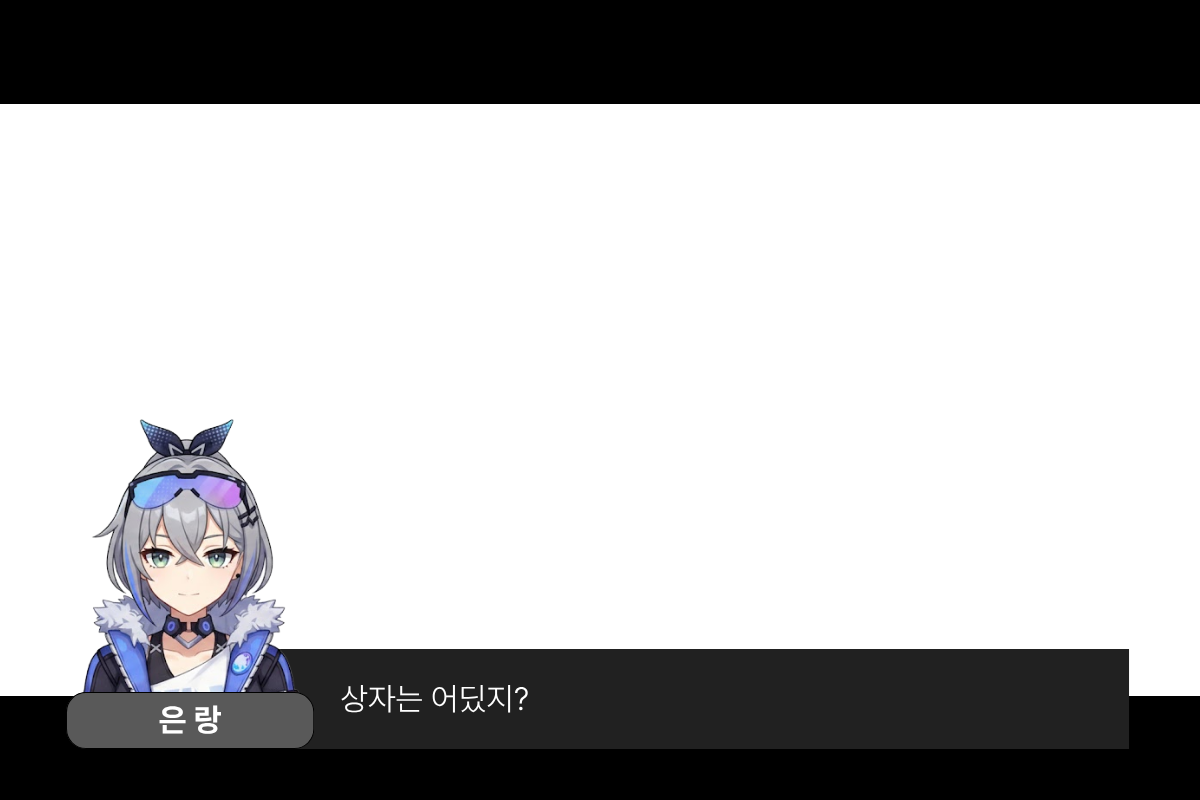
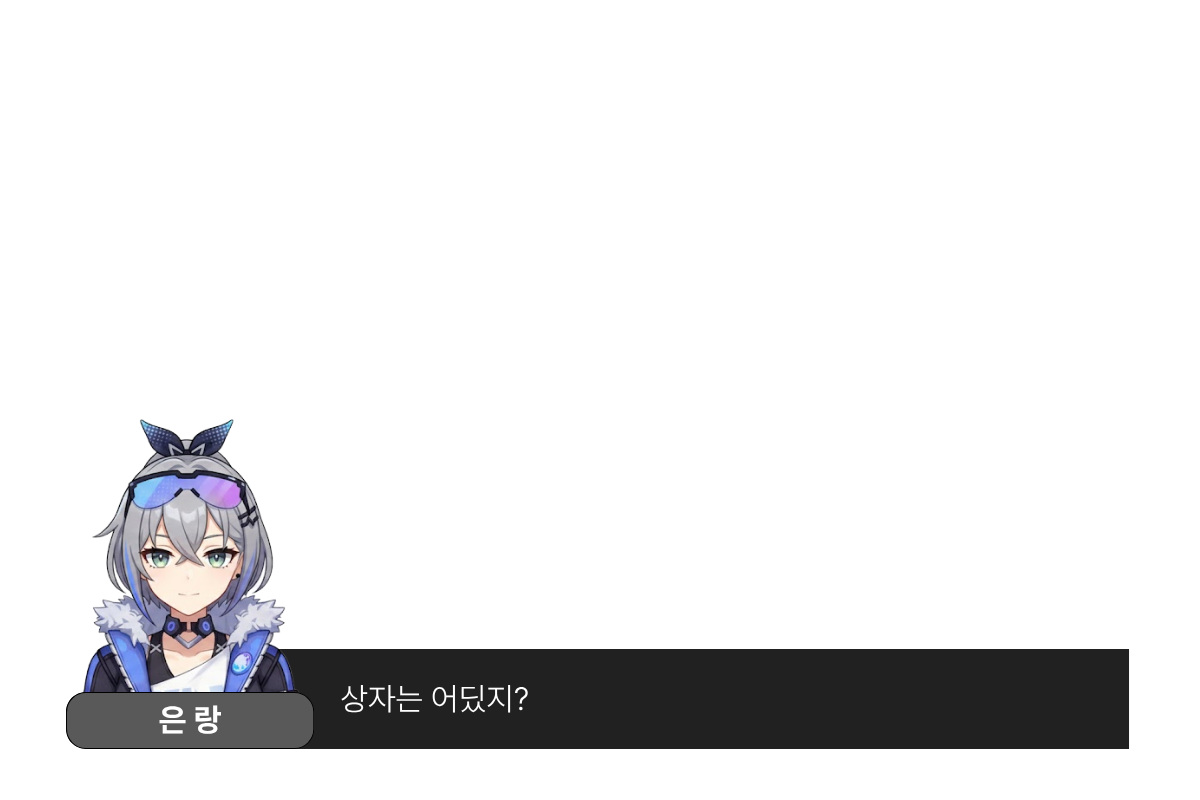
'ㅇㅅㅇ'는 눈을 동그랗게 뜨고 'ㅅ' 모양 입을 가진 귀여운 표정을 형상화한 아스키 아트 이모티콘으로, 주로 어리둥절하거나, 할 말이 없거나, 긍정적/부정적 반응을 나타내는 추임새처럼 사용되며, 원숭이나 곰돌이 같은 귀여운 동물의 느낌을 주기도 합니다. 명확한 단어의 줄임말이라기보다는 그림말(이모티콘)의 한 종류이며, '어리석어', '애송이' 같은 부정적인 뉘앙스나 '어서 와' 같은 긍정적 뉘앙스 등으로 해석이 다양해지는 특징이 있습니다.

Changed region(s): [[0.0, 0.0, 1.0, 0.1562], [0.0, 0.8438, 1.0, 1.0]]

diff --git a/umieun_umital/game_mode.cpp b/umieun_umital/game_mode.cpp
@@ -63,6 +63,8 @@ void game_mode::Init() {
     // ui 및 텍스트 로드
     loadImages();
     loadTexts();
+    ui_dis = glm::vec2((winWidth - 1200) / 2, (winHeight - 800) / 2);
+    reshape_ui(winWidth, winHeight);
 
     // 스카이박스
     skybox = new Skybox("skybox/sun.png", "skybox/moon.png");
@@ -541,20 +543,22 @@ void game_mode::Draw() {
         else mission->Draw(shaderProgramImage, uiProj);
     }
     if (!game_start && !fade) {
-        game_ui->Draw(shaderProgramImage, uiProj);
+        game_ui_enemy->Draw(shaderProgramImage, uiProj);
+		game_ui_ball->Draw(shaderProgramImage, uiProj);
+		game_ui_option->Draw(shaderProgramImage, uiProj);
         if (show_e_key) e_key_image->Draw(shaderProgramImage, uiProj);
 
         std::stringstream ss;
         ss << std::fixed << std::setprecision(2) << record_time;
         string now_time = "Time: " + ss.str();
-        textUI.Draw(now_time, 0, (WINDOW_HEIGHT * 5 / 6) - 100.0f, 0.4f, glm::vec3(0.9f, 0.9f, 0.9f));
+        textUI.Draw(now_time, 0, WINDOW_HEIGHT - 230.0f, 0.4f, glm::vec3(0.9f, 0.9f, 0.9f));
 
         string ball_count = to_string(silverWolf.ball_cnt);
-        textUI.Draw(ball_count, 1175.0f, 25.0f, 0.35f, glm::vec3(0.9f, 0.9f, 0.9f));
+        textUI.Draw(ball_count, WINDOW_WIDTH - 110.0f, 25.0f, 0.35f, glm::vec3(0.9f, 0.9f, 0.9f));
 
         string kill_count_str = to_string(kill_count);
         string enemy_count_str = to_string(target_count);
-        textUI.Draw(kill_count_str + " / " + enemy_count_str, 50, (WINDOW_HEIGHT * 5 / 6) - 200.0f, 0.4f, glm::vec3(0.9f, 0.9f, 0.9f));
+        textUI.Draw(kill_count_str + " / " + enemy_count_str, 50, WINDOW_HEIGHT - 330.0f, 0.4f, glm::vec3(0.9f, 0.9f, 0.9f));
 
         if (ultimate) {
             silverWolfult[static_cast<int>(ultimate_frame)]->Draw(shaderProgramImage, uiProj);
@@ -932,7 +936,7 @@ void game_mode::Mouse(int button, int state, int x, int y) {
     silverWolf.Mouse(button, state, x, y);
 
     if (button == GLUT_LEFT_BUTTON && state == GLUT_DOWN) {
-        if (x >= 1150 && x <= 1250 && y >= 0 && y <= 60) {
+        if (x >= WINDOW_WIDTH - 50.0f && x <= WINDOW_WIDTH && y >= 0 && y <= 60) {
             playerChannel = soundManager.Play("click", silverWolf.pos, effect_volume);
             silverWolf.ChangeState(new State_Idle());
             silverWolf.w_press = false;
@@ -1012,10 +1016,18 @@ void game_mode::Finish() {
         delete black_background;
         black_background = nullptr;
     }
-    if (game_ui) {
-        delete game_ui;
-        game_ui = nullptr;
+    if (game_ui_ball) {
+        delete game_ui_ball;
+        game_ui_ball = nullptr;
     }
+    if (game_ui_enemy) {
+        delete game_ui_enemy;
+        game_ui_enemy = nullptr;
+	}
+    if (game_ui_option) {
+        delete game_ui_option;
+        game_ui_option = nullptr;
+	}
     if (e_key_image) {
         delete e_key_image;
         e_key_image = nullptr;
@@ -1043,6 +1055,10 @@ void game_mode::Finish() {
 void game_mode::Reshape(int w, int h) {
     WINDOW_WIDTH = w;
     WINDOW_HEIGHT = h;
+    ui_dis = glm::vec2((w - 1200) / 2, (h - 800) / 2);
+    reshape_ui((float)w, (float)h);
+    glm::mat4 proj = glm::ortho(0.0f, (float)w, 0.0f, (float)h);
+    textUI.projection = proj;
     glViewport(0, 0, w, h);
 }
 
@@ -1059,7 +1075,8 @@ void game_mode::OnPause() {
 
 void game_mode::OnResume() {
     camera_fixed = false;
-    // 옵션 창 닫고 돌아왔을 때 복구할 로직
+    ui_dis = glm::vec2((winWidth - 1200) / 2, (winHeight - 800) / 2);
+    reshape_ui(winWidth, winHeight);
     glEnable(GL_DEPTH_TEST); // 혹시 다른 씬에서 껐을까봐 다시 켬
 }
 
@@ -1104,8 +1121,8 @@ void game_mode::loadModels() {
 void game_mode::loadImages() {
     stbi_set_flip_vertically_on_load(true);
 
-    glm::vec2 size1 = glm::vec2((float)winWidth, (float)winHeight);
-    glm::vec2 pos1 = glm::vec2((float)winWidth / 2.0f, (float)winHeight / 2.0f);
+    glm::vec2 size1 = glm::vec2((float)1200, (float)800);
+    glm::vec2 pos1 = glm::vec2((float)1200 / 2.0f, (float)800 / 2.0f);
 
     mission = new Image(LoadTexture("scene_image/mission.png"), pos1, size1);
     mission->color.w = 1.0f;
@@ -1113,8 +1130,14 @@ void game_mode::loadImages() {
     black_background = new Image(LoadTexture("scene_image/black_background.png"), pos1, size1);
     black_background->color.w = 0.5f;
 
-    game_ui = new Image(LoadTexture("scene_image/game_ui.png"), pos1, size1);
-    game_ui->color.w = 1.0f;
+    game_ui_ball = new Image(LoadTexture("scene_image/game_ui_ball.png"), pos1, size1);
+    game_ui_ball->color.w = 1.0f;
+
+    game_ui_enemy = new Image(LoadTexture("scene_image/game_ui_enemy.png"), pos1, size1);
+    game_ui_enemy->color.w = 1.0f;
+
+    game_ui_option = new Image(LoadTexture("scene_image/game_ui_option.png"), pos1, size1);
+    game_ui_option->color.w = 1.0f;
 
     e_key_image = new Image(LoadTexture("scene_image/e_key.png"), pos1, size1);
     e_key_image->color.w = 0.8f;
@@ -1124,9 +1147,38 @@ void game_mode::loadImages() {
 
     stbi_set_flip_vertically_on_load(false);
 }
+void game_mode::reshape_ui(float w, float h) {
+	mission->size = glm::vec2(1200.0f, 800.0f);
+	mission->position = glm::vec2(w / 2.0f, h / 2.0f);
 
+	black_background->size = glm::vec2(w, h);
+	black_background->position = glm::vec2(w / 2.0f, h / 2.0f);
+
+    game_ui_ball->size = glm::vec2(1200.0f, 800.0f);
+	game_ui_ball->position = glm::vec2(w - game_ui_ball->size.x / 2, game_ui_ball->size.y / 2);
+
+    game_ui_enemy->size = glm::vec2(1200.0f, 800.0f);
+    game_ui_enemy->position = glm::vec2(game_ui_enemy->size.x / 2, h - game_ui_enemy->size.y / 2);
+
+    game_ui_option->size = glm::vec2(1200.0f, 800.0f);
+    game_ui_option->position = glm::vec2(w-game_ui_ball->size.x / 2, h-game_ui_ball->size.y / 2);
+
+	e_key_image->size = glm::vec2(1200.0f, 800.0f);
+	e_key_image->position = glm::vec2(w / 2.0f, h / 2.0f);
+
+	game_tip->size = glm::vec2(1200.0f, 800.0f);
+	game_tip->position = glm::vec2(w / 2.0f, h / 2.0f);
+
+    for (int i = 4;i < silverWolfult_count + 4;++i) {
+        silverWolfult[i - 4]->size = glm::vec2(w, h);
+		silverWolfult[i - 4]->position = glm::vec2(w / 2.0f, h / 2.0f);
+    }
+
+    glm::mat4 proj = glm::ortho(0.0f, (float)w, 0.0f, (float)h);
+    textUI.projection = proj;
+}
 void game_mode::loadTexts() {
-    glm::mat4 proj = glm::ortho(0.0f, 1280.0f, 0.0f, 720.0f);
+    glm::mat4 proj = glm::ortho(0.0f, 1200.0f, 0.0f, 800.0f);
 
     textUI.Init("font/경기천년제목_Medium.ttf", shaderProgramText, proj);
 

diff --git a/umieun_umital/clear_mode.cpp b/umieun_umital/clear_mode.cpp
@@ -118,11 +118,11 @@ void clear_mode::loadModels() {
 void clear_mode::loadImages() {
     stbi_set_flip_vertically_on_load(true);
 
-    glm::vec2 size1 = glm::vec2((float)winWidth, (float)winHeight);
-    glm::vec2 pos1 = glm::vec2((float)winWidth / 2.0f, (float)winHeight / 2.0f);
+    glm::vec2 size1 = glm::vec2((float)1200, (float)800);
+    glm::vec2 pos1 = glm::vec2((float)1200 / 2.0f, (float)800 / 2.0f);
 
     black_background = new Image(LoadTexture("scene_image/black_background.png"), pos1, size1);\
-        black_background->color.w = 0.0f;
+    black_background->color.w = 0.0f;
 
     black_bar = new Image(LoadTexture("scene_image/cut_scene_black_bar.png"), pos1, size1);
     black_bar->color.w = 1.0f;
@@ -146,12 +146,34 @@ void clear_mode::loadImages() {
 
     stbi_set_flip_vertically_on_load(false);
 }
+void clear_mode::reshape_ui(float w, float h) {
+	black_background->size = glm::vec2(w, h);
+	black_background->position = glm::vec2(w / 2.0f, h / 2.0f);
+
+	black_bar->size = glm::vec2(w, h);
+	black_bar->position = glm::vec2(w / 2.0f, h / 2.0f);
+
+	qte_f->position = glm::vec2(940.0f + ui_dis.x, 360.0f + ui_dis.y);
+
+	qte_tip->position = glm::vec2(w / 2.0f, h / 2.0f);
+
+    for (auto& m : scene_1) {
+        m->position = glm::vec2(w / 2.0f, m->size.y /2 + ui_dis.y/4);
+	}
+
+    for (auto& m : scene_2) {
+		m->size = glm::vec2(w, h);
+        m->position = glm::vec2(w / 2.0f, m->size.y / 2 + ui_dis.y / 4);
+	}
+}
 void clear_mode::loadTexts() {
 }
 
 // 1. 초기화 (기존 init 함수 내용)
 void clear_mode::Init() {
     cout << "[clearMode] Initializing..." << endl;
+
+    stbi_set_flip_vertically_on_load(false);
 
     if (bgmChannel) {
         bgmChannel->stop();
@@ -170,12 +192,17 @@ void clear_mode::Init() {
     loadModels();
     loadImages();
     loadTexts();
+
+	ui_dis = glm::vec2((winWidth - 1200) / 2, (winHeight - 800) / 2);
+	reshape_ui((float)winWidth, (float)winHeight);
 }
 
 // 2. 업데이트 (기존 timer 함수 내용 중 로직 부분)
 void clear_mode::Update(float deltaTime) {
     bool isPlaying = false;
-    bgmChannel->isPlaying(&isPlaying);
+    if (bgmChannel) {
+        bgmChannel->isPlaying(&isPlaying);
+    }
 
     if (!isPlaying) {
         bgmChannel = soundManager.Play("qte", glm::vec3(0.0f, 0.0f, 0.0f), 0.1f);
@@ -464,7 +491,7 @@ void clear_mode::Draw() {
 
         if (qte_pause) {
             qte_f->Draw(shaderProgramImage, uiProj);
-            drawCircle(940.0f, 360.0f, circle_radius, glm::vec4(1.0f, 1.0f, 0.5f, 1.0f));
+            drawCircle(940.0f + ui_dis.x, 360.0f + ui_dis.y, circle_radius, glm::vec4(1.0f, 1.0f, 0.5f, 1.0f));
         }
 
         if (qte_is_success == 1) {
@@ -530,16 +557,23 @@ void clear_mode::Keyboard(unsigned char key, int x, int y) {
         break;
     case 'f':
     case 'F':
-        if (scene_progress == 1) {
+        if (scene_progress == 1 && !pause) {
             if (circle_radius != 0.0f) {
                 if (qte_pause && circle_radius > 65.0f && circle_radius < 85.0f) {
-                    playerChannel->stop();
-                    playerChannel = soundManager.Play("quest", silverWolf.pos, effect_volume);
+                    if (playerChannel) {
+                        bool isPlaying = false;
+                        playerChannel->isPlaying(&isPlaying);
+                        if (isPlaying) {
+                            playerChannel->stop();
+                        }
+                    }
+
                     qte_is_success = 1;
                     qte_success_count++;
                     qte_pause = false;
                     circle_radius = 0.0f;
                     silverWolf.Keyboard('f', 0.0f, 0.0f);
+                    playerChannel = soundManager.Play("quest", silverWolf.pos, effect_volume);
                 }
                 else {
                     qte_is_success = -1;
@@ -583,6 +617,8 @@ void clear_mode::OnResume() {
 void clear_mode::Reshape(int w, int h) {
     WINDOW_WIDTH = w;
     WINDOW_HEIGHT = h;
+    ui_dis = glm::vec2((w - 1200) / 2, (h - 800) / 2);
+    reshape_ui((float)w, (float)h);
     glViewport(0, 0, w, h);
 }
 
